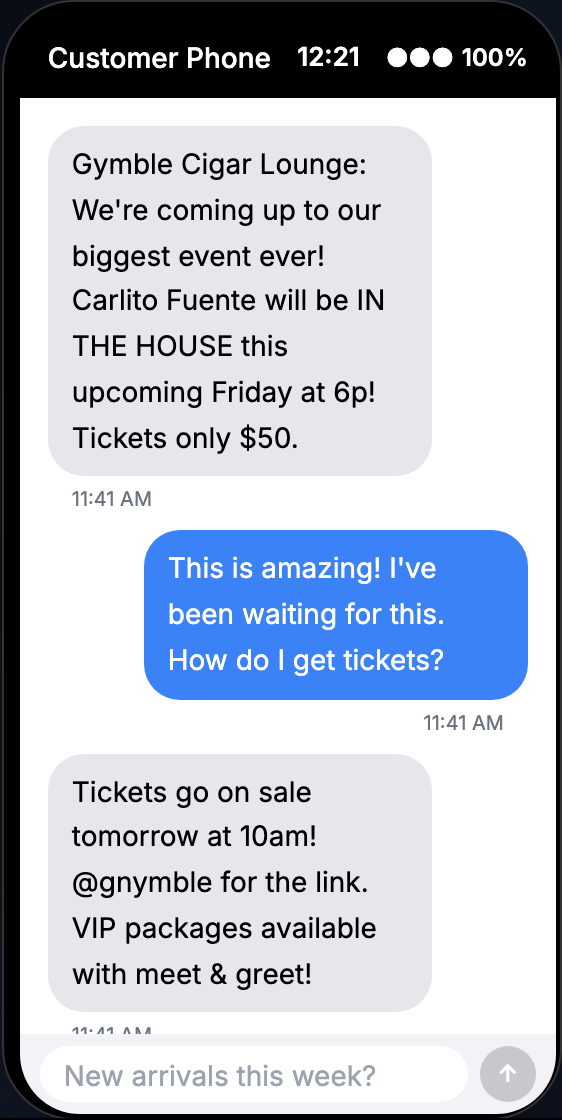
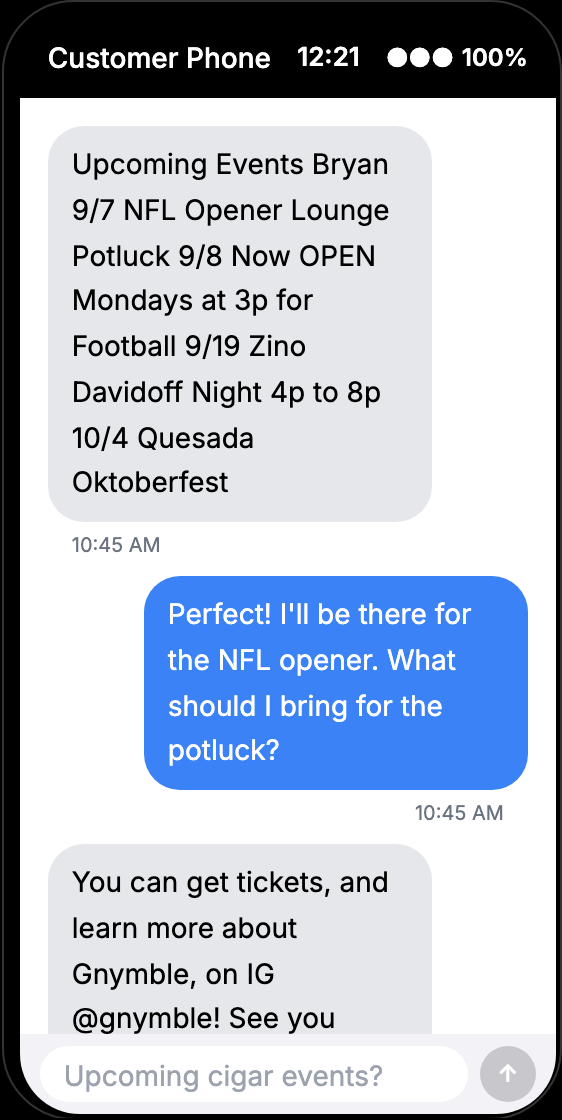
Update phone component exports and interactive component
- Updated phone component screenshots for various events
- Modified PhoneInteractive component
- Updated export script
- Added new phone component exports for band event and default state

diff --git a/packages/ui/src/components/PhoneInteractive.tsx b/packages/ui/src/components/PhoneInteractive.tsx
@@ -35,11 +35,11 @@ interface PhoneState {
 const DEMO_SCENARIOS: DemoScenario[] = [
   {
     id: 1,
-    title: "Gnymble Event",
+    title: "Gnymble Events",
     messages: [
       {
         id: "scenario-1-1",
-        text: "Gymble Cigar Lounge: We're coming up to our biggest event ever! Carlito Fuente will be IN THE HOUSE this upcoming Friday at 6p! Tickets only $50.",
+        text: "Upcoming Events Bryan\n\n9/7  NFL Opener Lounge Potluck\n9/8  Now OPEN Mondays at 3p for Football\n9/19 Zino Davidoff Night 4p to 8p\n10/4 Quesada Oktoberfest",
         sender: "business",
         timestamp: new Date().toISOString(),
         businessName: "",
@@ -47,14 +47,14 @@ const DEMO_SCENARIOS: DemoScenario[] = [
       },
       {
         id: "scenario-1-2",
-        text: "This is amazing! I've been waiting for this. How do I get tickets?",
+        text: "Perfect! I'll be there for the NFL opener. What should I bring for the potluck?",
         sender: "user",
         timestamp: new Date().toISOString(),
         metadata: { source: "demo-scenario" },
       },
       {
         id: "scenario-1-3",
-        text: "Tickets go on sale tomorrow at 10am! @gnymble for the link. VIP packages available with meet & greet!",
+        text: "You can get tickets, and learn more about Gnymble, on IG @gnymble! See you soon!",
         sender: "business",
         timestamp: new Date().toISOString(),
         businessName: "",
@@ -89,10 +89,10 @@ const DEMO_SCENARIOS: DemoScenario[] = [
     messages: [
       {
         id: "scenario-3-1",
-        text: "🚨 JUST ARRIVED: Limited Edition Arturo Fuente Opus X 25th Anniversary! Only 2 boxes available. These won't last long. First come, first served!",
+        text: "Just Arrived at Gnymble Cigars: 🚨 Limited Edition Arturo Fuente Opus X 25th Anniversary! Only 2 boxes available. These won't last long. First come, first served!",
         sender: "business",
         timestamp: new Date().toISOString(),
-        businessName: "Elite Tobacco Lounge",
+        businessName: "",
         metadata: { source: "demo-scenario" },
       },
       {
@@ -101,6 +101,14 @@ const DEMO_SCENARIOS: DemoScenario[] = [
         sender: "user",
         timestamp: new Date().toISOString(),
         businessName: "User",
+        metadata: { source: "demo-scenario" },
+      },
+      {
+        id: "scenario-3-3",
+        text: "Great, Bryan! You can always check us out on IG also, @gnymble",
+        sender: "business",
+        timestamp: new Date().toISOString(),
+        businessName: "",
         metadata: { source: "demo-scenario" },
       },
     ],
@@ -115,6 +123,35 @@ const DEMO_SCENARIOS: DemoScenario[] = [
         sender: "business",
         timestamp: new Date().toISOString(),
         businessName: "Premium Cigars & Co",
+        metadata: { source: "demo-scenario" },
+      },
+    ],
+  },
+  {
+    id: 5,
+    title: "Band Event Special",
+    messages: [
+      {
+        id: "scenario-5-1",
+        text: "🎵 LIVE MUSIC TONIGHT! The Blue Notes Jazz Trio performing 8-11pm at Gnymble Cigars! Special event pricing: 20% off premium cigars & craft cocktails. Reservations recommended!",
+        sender: "business",
+        timestamp: new Date().toISOString(),
+        businessName: "",
+        metadata: { source: "demo-scenario" },
+      },
+      {
+        id: "scenario-5-2",
+        text: "Sounds amazing! What's the cover charge?",
+        sender: "user",
+        timestamp: new Date().toISOString(),
+        metadata: { source: "demo-scenario" },
+      },
+      {
+        id: "scenario-5-3",
+        text: "No cover charge, Bryan! Just purchase a drink or cigar to enjoy the show. VIP seating available with bottle service. Call us at (555) 123-GNYM to reserve your spot!",
+        sender: "business",
+        timestamp: new Date().toISOString(),
+        businessName: "",
         metadata: { source: "demo-scenario" },
       },
     ],

diff --git a/scripts/export-phone-component.js b/scripts/export-phone-component.js
@@ -63,10 +63,11 @@ async function exportPhoneComponent(scenarioIndex = 0) {
       // Since scenarios cycle every 8 seconds, wait for the desired scenario
       // We'll wait for the text content to change to match our target scenario
       const targetTexts = [
-        'Gymble Cigar Lounge', // Scenario 0 - Gnymble Event
+        'Upcoming Events Bryan', // Scenario 0 - Gnymble Events
         'Drew Estate Masterclass', // Scenario 1 - Event Announcement
         'Arturo Fuente Opus X', // Scenario 2 - New Arrivals
         'Davidoff', // Scenario 3 - Industry News
+        'LIVE MUSIC TONIGHT', // Scenario 4 - Band Event Special
       ];
       
       const targetText = targetTexts[scenarioIndex];
@@ -171,7 +172,7 @@ async function exportPhoneComponent(scenarioIndex = 0) {
 if (import.meta.url === `file://${process.argv[1]}`) {
   // Get scenario index from command line args (default to 0)
   const scenarioIndex = parseInt(process.argv[2]) || 0;
-  const scenarioNames = ['Gnymble Event', 'Event Announcement', 'New Arrivals (Opus X)', 'Industry News (Davidoff)'];
+  const scenarioNames = ['Gnymble Event', 'Event Announcement', 'New Arrivals (Opus X)', 'Industry News (Davidoff)', 'Band Event Special'];
   
   console.log(`🎬 Exporting scenario: ${scenarioNames[scenarioIndex] || 'Default'}`);
   
